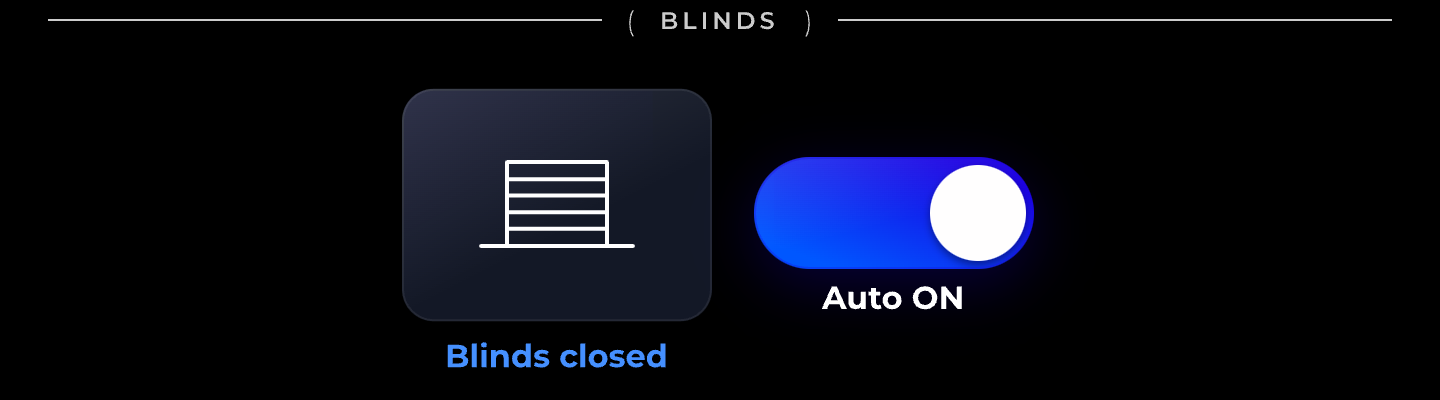
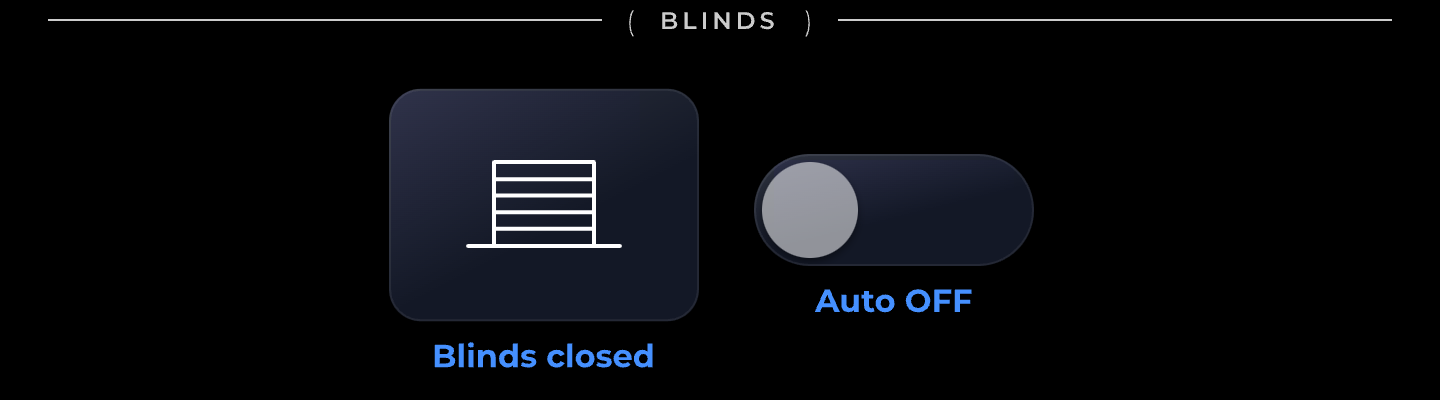
Auto toggle OFF↔ON: full section PNG swap, precise button hotspots
- Auto toggle clicks swap entire section PNG between OFF/ON states
- Button tile-flash hotspots aligned to exact Pencil coordinates (border-radius:16px)
- Exported OFF and ON versions for lights, blinds, shades from Pencil
- Removed overlay toggle approach, clean single img swap

diff --git a/index.html b/index.html
@@ -47,12 +47,17 @@ body{
 
 /* ── Tile flash ── */
 .tile-flash{
-  position:absolute;z-index:5;cursor:pointer;border-radius:16px;
+  position:absolute;z-index:5;cursor:pointer;
   background:transparent;transition:background 0.15s,box-shadow 0.15s;
 }
 .tile-flash.flash{
   background:linear-gradient(160deg,rgba(27,0,226,0.65) 0%,rgba(14,0,113,0.65) 100%);
   box-shadow:0 0 20px rgba(27,0,226,0.3);
+}
+
+/* ── Auto Toggle area (invisible clickable zone) ── */
+.auto-toggle-area{
+  position:absolute;z-index:5;cursor:pointer;
 }
 
 /* ── Recording section (pure HTML/CSS) ── */
@@ -662,29 +667,29 @@ body{
   <!-- ═══ LIGHTS ═══ -->
   <div class="section draggable" draggable="true" data-name="lights">
     <div class="drag-handle"></div>
-    <img src="occupy-assets/5ZVwo.png" alt="">
-    <div class="tile-flash" data-group="lights" data-idx="0" style="left:24px;top:35px;width:155px;height:145px;"></div>
-    <div class="tile-flash" data-group="lights" data-idx="1" style="left:199px;top:35px;width:155px;height:145px;"></div>
-    <div class="tile-flash" data-group="lights" data-idx="2" style="left:374px;top:35px;width:155px;height:145px;"></div>
-    <div class="tile-flash" data-group="lights" data-idx="3" style="left:549px;top:35px;width:155px;height:145px;"></div>
+    <img src="occupy-assets/5ZVwo.png" alt="" data-off="occupy-assets/5ZVwo.png" data-on="occupy-assets/5ZVwo-on.png">
+    <div class="tile-flash" data-group="lights" data-idx="0" style="left:20px;top:81px;width:155px;height:116px;border-radius:16px;"></div>
+    <div class="tile-flash" data-group="lights" data-idx="1" style="left:195px;top:81px;width:155px;height:116px;border-radius:16px;"></div>
+    <div class="tile-flash" data-group="lights" data-idx="2" style="left:370px;top:81px;width:155px;height:116px;border-radius:16px;"></div>
+    <div class="auto-toggle-area" data-section="lights" style="left:545px;top:75px;width:155px;height:120px;"></div>
   </div>
 
   <!-- ═══ BLINDS ═══ -->
   <div class="section draggable" draggable="true" data-name="blinds">
     <div class="drag-handle"></div>
-    <img src="occupy-assets/HRZBU.png" alt="">
-    <div class="tile-flash" data-group="blinds" data-idx="0" style="left:24px;top:36px;width:320px;height:165px;"></div>
-    <div class="tile-flash" data-group="blinds" data-idx="1" style="left:370px;top:36px;width:320px;height:165px;"></div>
+    <img src="occupy-assets/HRZBU.png" alt="" data-off="occupy-assets/HRZBU.png" data-on="occupy-assets/HRZBU-on.png">
+    <div class="tile-flash" data-group="blinds" data-idx="0" style="left:197px;top:79px;width:155px;height:116px;border-radius:16px;"></div>
+    <div class="auto-toggle-area" data-section="blinds" style="left:372px;top:75px;width:155px;height:120px;"></div>
   </div>
 
   <!-- ═══ SHADES ═══ -->
   <div class="section draggable" draggable="true" data-name="shades">
     <div class="drag-handle"></div>
-    <img src="occupy-assets/Z4lIp.png" alt="">
-    <div class="tile-flash" data-group="shades" data-idx="0" style="left:24px;top:35px;width:155px;height:145px;"></div>
-    <div class="tile-flash" data-group="shades" data-idx="1" style="left:199px;top:35px;width:155px;height:145px;"></div>
-    <div class="tile-flash" data-group="shades" data-idx="2" style="left:374px;top:35px;width:155px;height:145px;"></div>
-    <div class="tile-flash" data-group="shades" data-idx="3" style="left:549px;top:35px;width:155px;height:145px;"></div>
+    <img src="occupy-assets/Z4lIp.png" alt="" data-off="occupy-assets/Z4lIp.png" data-on="occupy-assets/Z4lIp-on.png">
+    <div class="tile-flash" data-group="shades" data-idx="0" style="left:20px;top:81px;width:155px;height:116px;border-radius:16px;"></div>
+    <div class="tile-flash" data-group="shades" data-idx="1" style="left:195px;top:81px;width:155px;height:116px;border-radius:16px;"></div>
+    <div class="tile-flash" data-group="shades" data-idx="2" style="left:370px;top:81px;width:155px;height:116px;border-radius:16px;"></div>
+    <div class="auto-toggle-area" data-section="shades" style="left:545px;top:75px;width:155px;height:120px;"></div>
   </div>
 
   <!-- ═══ HEY TRICSY ═══ -->
@@ -999,13 +1004,26 @@ document.querySelectorAll('.tile-flash').forEach(el=>{
     el.classList.add('flash');
     setTimeout(()=>el.classList.remove('flash'),1000);
     const names={
-      lights:['Off','Dim Light','Full Light','Auto ON'],
-      blinds:['Blinds closed','Auto ON'],
-      shades:['Closed Shades','Half way','Open Shades','Auto ON'],
+      lights:['Off','Dim Light','Full Light'],
+      blinds:['Blinds closed'],
+      shades:['Closed Shades','Half way','Open Shades'],
       services:['ITO support','Reception call','Ordering','Cleaning needed']
     };
     const idx=parseInt(el.dataset.idx);
     if(names[group]&&names[group][idx])showToast(names[group][idx]);
+  });
+});
+
+// ── Auto Toggle (swap entire section PNG between OFF↔ON) ──
+document.querySelectorAll('.auto-toggle-area').forEach(el=>{
+  let isOn=false;
+  el.addEventListener('click',()=>{
+    isOn=!isOn;
+    const section=el.closest('.section');
+    const img=section.querySelector('img[data-off]');
+    img.src=isOn?img.dataset.on:img.dataset.off;
+    const name=el.dataset.section;
+    showToast(name.charAt(0).toUpperCase()+name.slice(1)+' Auto '+(isOn?'ON':'OFF'));
   });
 });
 
